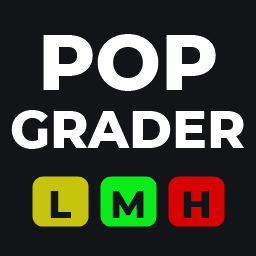
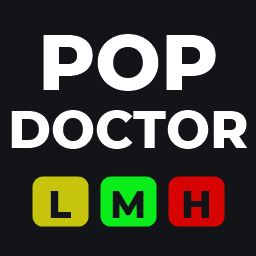
Pop Doctor: the plugin is renamed, Pop Grader is its first module
- The plugin, its relay, the store page, the icon and the repository are Pop Doctor (was Pop Grader).
- MODULES tab: each module has a switch of its own. Pop Grader's is the overlay's on/off, moved from SETTINGS.
- The relay looks for a plugin named Pop_Doctor and remembers the game in pop-doctor-relay.json.

Changed region(s): [[0.0312, 0.4062, 0.9688, 0.5938]]

diff --git a/mod/README.md b/mod/README.md
@@ -1,4 +1,8 @@
-# Pop Grader
+# Pop Doctor
+
+Pop tools for ReSkate, as modules you switch on and off. Version 1 has one module: Pop Grader.
+
+## Pop Grader
 
 A small block in a corner of the screen that tells you, after every pop:
 
@@ -11,24 +15,24 @@ An F2 page holds every setting and the details of your last 10 jumps.
 ## You need two things
 
 1. This plugin.
-2. The Pop Grader relay, a small program that runs beside the game.
+2. The Pop Doctor relay, a small program that runs beside the game.
 
-Download the relay: https://github.com/mrx-xo/pop-grader/releases/latest (the file named Pop_Grader_Relay, under Assets).
+Download the relay: https://github.com/mrx-xo/pop-doctor/releases/latest (the file named Pop_Doctor_Relay, under Assets).
 
 The relay needs Node.js 18 or newer: https://nodejs.org (the LTS installer, all defaults).
 
 Why a relay: a plugin can only read its own data folder. What the Studio played is written in the game's log,
 and the pack names are in your ReSkate.Tricks folder. The relay reads those and hands them to the plugin.
 It reads ReSkate.log, ReSkate.Tricks and the trainer's settings file. It writes studio.json in this
-plugin's data folder and remembers the game folder in %LOCALAPPDATA%\ReSkate\pop-grader-relay.json.
+plugin's data folder and remembers the game folder in %LOCALAPPDATA%\ReSkate\pop-doctor-relay.json.
 It does not go online.
 
 ## Install
 
-1. Install Pop Grader from the launcher (GET MODS) and turn its plugin on when the game asks.
+1. Install Pop Doctor from the launcher (GET MODS) and turn its plugin on when the game asks.
 2. Install Node.js if you do not have it.
 3. Download the relay zip and unzip it anywhere, for example on your desktop.
-4. Double-click "Start Pop Grader Relay". A small window opens and stays open.
+4. Double-click "Start Pop Doctor Relay". A small window opens and stays open.
 5. Play. Pop a trick: the block appears bottom-left.
 
 Start the relay each time you play. It can be started before or after the game.
@@ -45,9 +49,10 @@ from the upward speed at takeoff.
 
 ## Settings
 
-F2 > PLUGINS > Pop Grader
+F2 > PLUGINS > Pop Doctor
 
-- SETTINGS: on or off, the corner, the layout (three lines, two lines, one line), the font, the size, the distance
+- MODULES: each module's switch. Pop Grader is on to start with.
+- SETTINGS: the corner, the layout (three lines, two lines, one line), the font, the size, the distance
   from the edge, hiding the block some seconds after a landing, which lines show, how the pop grade is written
   (dot, letter, short, word, pop, badge), the pack badge and its colours, the backing box, the grade colours.
 - HISTORY: the last 10 jumps. Open one for its animation, flight and landing numbers.
@@ -82,5 +87,5 @@ Settings are kept in the plugin's data folder: Mods\.reskate_plugin_data\<this p
 - "Stock" on animations you know the Studio is playing: check that the relay window is still open,
   then pop again. Old relay data can remain after its window closes.
 - The relay says the plugin is not in Mods: install the plugin; the relay looks again every 30 seconds.
-- Nothing on screen: F2 > PLUGINS > Pop Grader > SETTINGS > Show the overlay.
+- Nothing on screen: F2 > PLUGINS > Pop Doctor > MODULES > Pop Grader.
 - The game's log (logs\ReSkate.log) names the plugin on every line it writes.

diff --git a/README.md b/README.md
@@ -1,6 +1,6 @@
-# Pop Grader
+# Pop Doctor
 
-A ReSkate plugin: a small block in a corner of the screen with the trick you just did, the Animator Studio
+A ReSkate plugin of pop tools, as modules a player switches on and off. Its first module is Pop Grader: a small block in a corner of the screen with the trick you just did, the Animator Studio
 animation that played, its pack and the pop grade. What a player reads about it is `mod/README.md`, the store page.
 
 ## What is where
@@ -18,7 +18,7 @@ animation that played, its pack and the pop grade. What a player reads about it 
 npm install                  once: the Luau VM the smoke test runs in
 node tool/smoke.mjs          load mod/ against a stand-in for the game and walk it through a session
 node tool/build.mjs          check mod/ against the store's and the game's rules, write the two zips, smoke test them
-node relay/pop-grader-relay.mjs      the relay, straight from here
+node relay/pop-doctor-relay.mjs      the relay, straight from here
 ```
 
 The name, version, description and website are `mod/manifest.json`. The permissions are `mod/reskate-plugin.json`:

diff --git a/mod/CHANGELOG.md b/mod/CHANGELOG.md
@@ -2,6 +2,6 @@
 
 ## 1.0.0
 
-- First release: the trick, the Animator Studio animation and its pack, and the pop grade in a corner of the screen.
-- F2 page with SETTINGS, HISTORY (the last 10 jumps, the newest one open) and MISC.
-- Needs the Pop Grader relay (Node.js) running beside the game.
+- First release, with one module, Pop Grader: the trick, the Animator Studio animation and its pack, and the pop grade in a corner of the screen.
+- F2 page with MODULES (each module's switch), SETTINGS, HISTORY (the last 10 jumps, the newest one open) and MISC.
+- Needs the Pop Doctor relay (Node.js) running beside the game.
